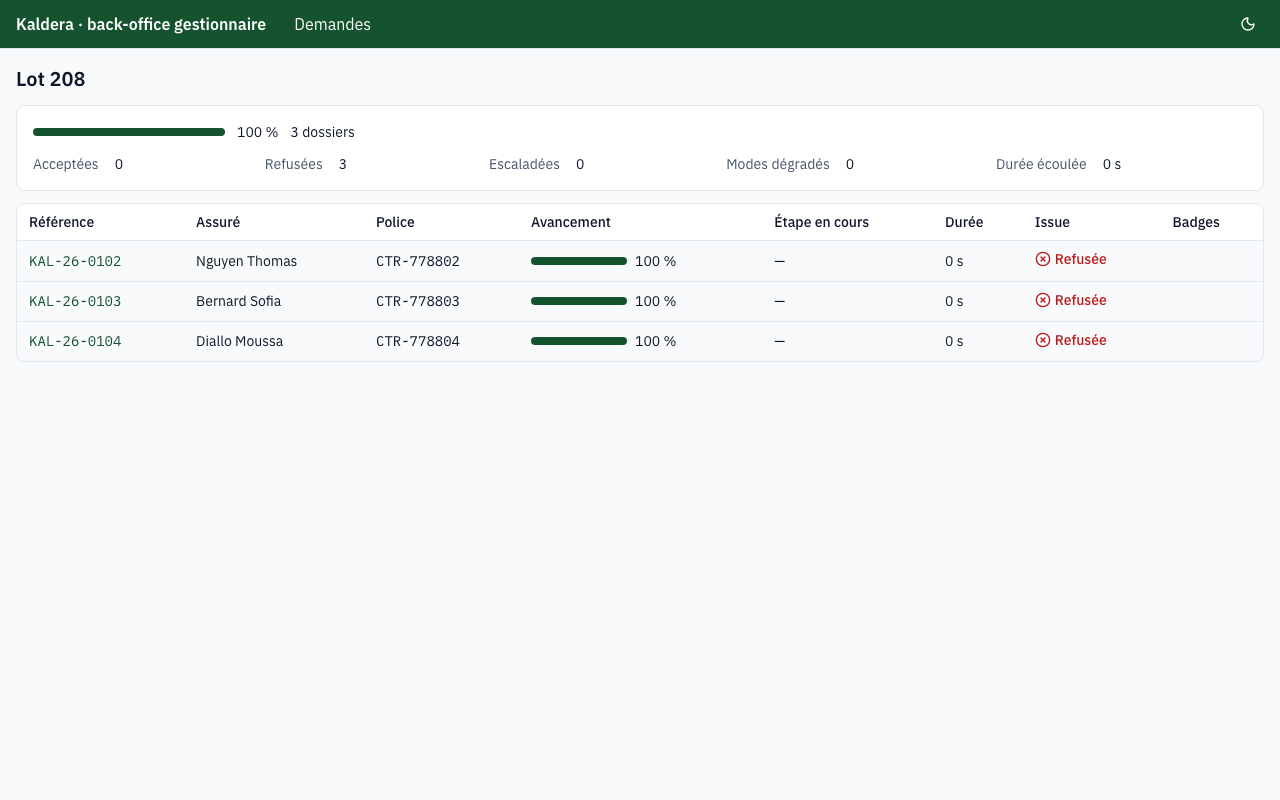
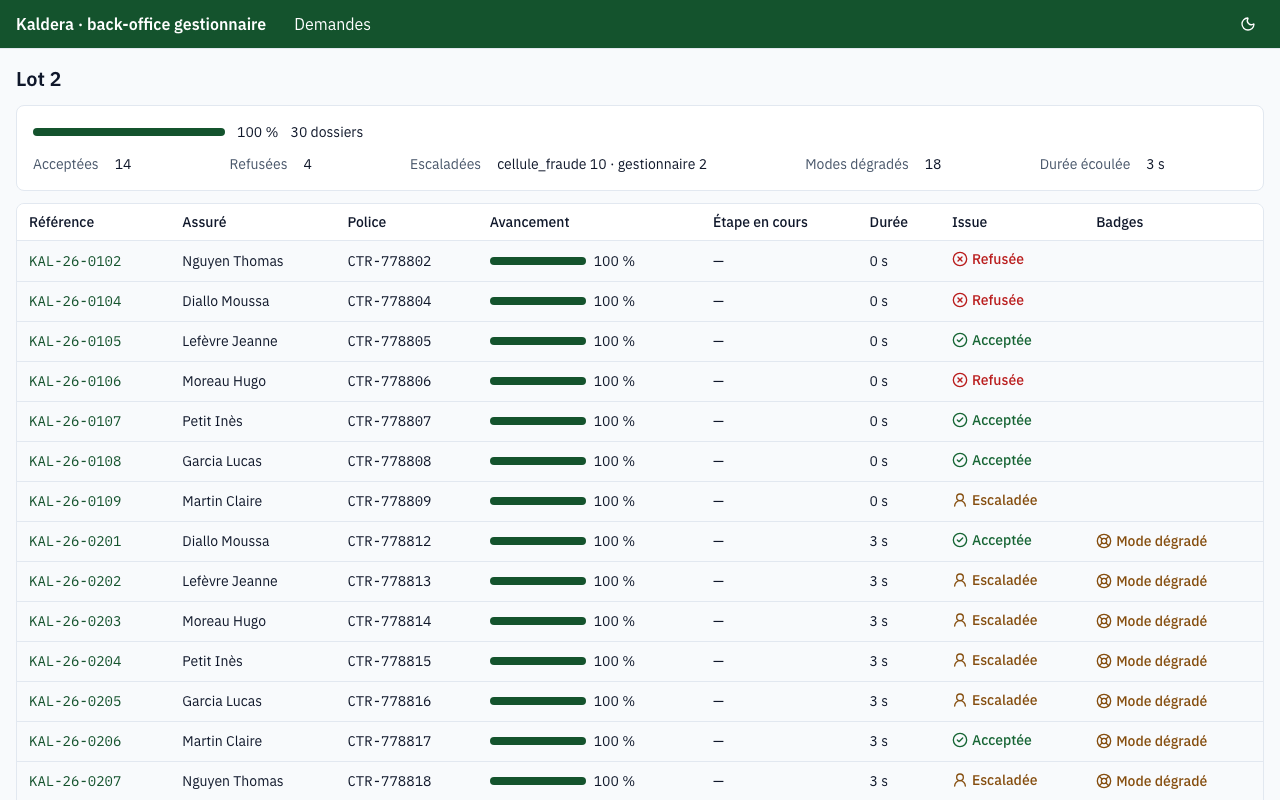
docs(recette): statuts du déroulé C3-3

diff --git a/docs/recette/generer_cahier_recette.py b/docs/recette/generer_cahier_recette.py
@@ -60,11 +60,61 @@ def groupes(liste):
         for nom, lignes in liste]
 
 
-# Statut relevé au dernier déroulé (vide : à dérouler) ; mis à jour à chaque recette.
-STATUTS: dict[str, str] = {}
+# Statut relevé au dernier déroulé ; mis à jour à chaque recette.
+STATUTS: dict[str, str] = {
+    "S-01": "OK",
+    "S-02": "OK",
+    "S-03": "NT",
+    "S-04": "OK",
+    "S-05": "OK",
+    "S-06": "OK",
+    "U-01": "OK",
+    "U-02": "OK",
+    "U-03": "OK",
+    "U-04": "OK",
+    "U-05": "OK",
+    "U-06": "OK",
+    "U-07": "KO",
+    "U-08": "KO",
+    "U-09": "OK",
+    "U-10": "OK",
+    "U-11": "OK",
+    "U-12": "OK",
+    "U-13": "OK",
+    "U-14": "OK",
+    "U-15": "OK",
+    "A-01": "OK",
+    "A-02": "OK",
+    "A-03": "OK",
+    "A-04": "NT",
+}
 
-# Remarque relevée au dernier déroulé (vide : aucune) ; mise à jour à chaque recette.
-REMARQUES: dict[str, str] = {}
+# Remarque relevée au dernier déroulé ; mise à jour à chaque recette.
+REMARQUES: dict[str, str] = {
+    "S-01": (
+        "Adapté : make recette non lancé (docker) ; tables vidées, make demo, make "
+        "partenaire."
+    ),
+    "S-03": "Pas de profil VLM Azure sur ce poste : le worker refuse de démarrer.",
+    "S-05": "Jeton PARTENAIRE_JETON passé à make api en ligne de commande (pas de .env).",
+    "U-02": "Sans flash : vérifié par l'e2e fumee.spec.ts, pas à l'œil.",
+    "U-05": "Infobulle = attribut title ; motif lu par aria-describedby.",
+    "U-06": (
+        "Adapté : 0103 refusé d'emblée (non éligible), 100 % en 0,1 s ; cartes non "
+        "observables."
+    ),
+    "U-07": (
+        "30 dossiers, lot 3,2 s, dossier max 3,05 s, barres et compteurs OK. Écart : "
+        "0102-0109 (sans anti-fraude) démarrent 3 s après les autres, pool saturé."
+    ),
+    "U-08": (
+        "Via le proxy Vite, API tuée : ni erreur ni « Reconnexion… » en 12 s ; Ctrl+C seul "
+        "n'arrête pas l'API tant qu'un flux SSE est ouvert."
+    ),
+    "U-14": "Adapté : partenaire lent (délai > 3 s), pas en panne ; dossier KAL-26-0404.",
+    "A-01": "18 appels, 18 dossiers distincts, aucun doublon.",
+    "A-04": "make recette-reset non lancé : PostgreSQL du checkout principal conservé.",
+}
 
 # Python 3.11 : pas de guillemets imbriqués dans une expression de f-string.
 PARTENAIRE_LENT = m('make ctl ARGS="lent --delai 5"')

diff --git a/docs/journal_ajustements.md b/docs/journal_ajustements.md
@@ -64,7 +64,7 @@ Chaque changement de borne, de garde, de frontière ou de routage laisse une lig
 | 2026-10-09 | C2c · LLM réel (sans clés) | LLM en panne : chaque demande retente ses 4 agents (jusqu'à 4 × `delai_agent_s` perdus) ; aucun outil pour comparer les modèles | EX-D33 (> 50 % / 1 min) ; C2-Q14c (replis 20 %, rejetées 5 %, latence p95, tours 2,5) | disjoncteur injecté (4 agents, fenêtre 60 s, minimum 10 tentatives, cause `disjoncteur`) ; `make eval` (matrice agent × modèle, invariance, bornes remesurées, recommandation par rôle) | panne : 10 appels puis 0 (`test_llm_en_panne_ouvre_le_disjoncteur_pour_tous`) ; `make eval` sans clés : « non mesuré », code 2 |
 | 2026-10-11 | brief v5 (chantier 3) | l'IHM livrée est l'espace assuré (UI1) ; le brief demande un back-office gestionnaire | EX-D44 | espace assuré retiré : front, routes `/assure/*`, sessions, agent de relance (rôle LLM `relance`), tables `utilisateurs`, `demandes_assure`, `evenements_assure` (migration `005`) ; `espace_assure.py` → `depots_assure.py` (relance métier conservée) | UI1 → page d'attente du back-office |
 | 2026-10-12 | lancement depuis l'IHM (C3-3) | le worker traitait chaque demande dès l'admission : rien à sélectionner dans E1 | EX-D45 | statut `prete` (migration 006) : le worker s'arrête à l'admission ; `POST /traitements` lance un lot en tâche de fond ; `make scenarios ARGS=--charger`, seed et épreuve lancent par l'API (`make api-epreuve`) | admission ⇒ traitée → admission ⇒ prête ⇒ lancée par le gestionnaire |
-| 2026-10-12 | lot de 34 dossiers (`test_chaine_complete_fakevlm`) | snapshots et signaux partagent un pool de 10 connexions | aucune « persistance coupée » | signaux best effort (un événement perdu est rattrapé par la relecture `GET`) ; mesure : remplir avec le résultat observé en Task 14 | — |
+| 2026-10-12 | lot de 34 dossiers (`test_chaine_complete_fakevlm`) | snapshots et signaux partagent un pool de 10 connexions | aucune « persistance coupée » | signaux best effort (un événement perdu est rattrapé par la relecture `GET`)  | test complet (dépôt, ingestion, lot de 34 dossiers) : 1,2 s, aucune « persistance coupée » ni signal perdu (3 essais) |
 
 ## Bornes provisoires en vigueur
 
